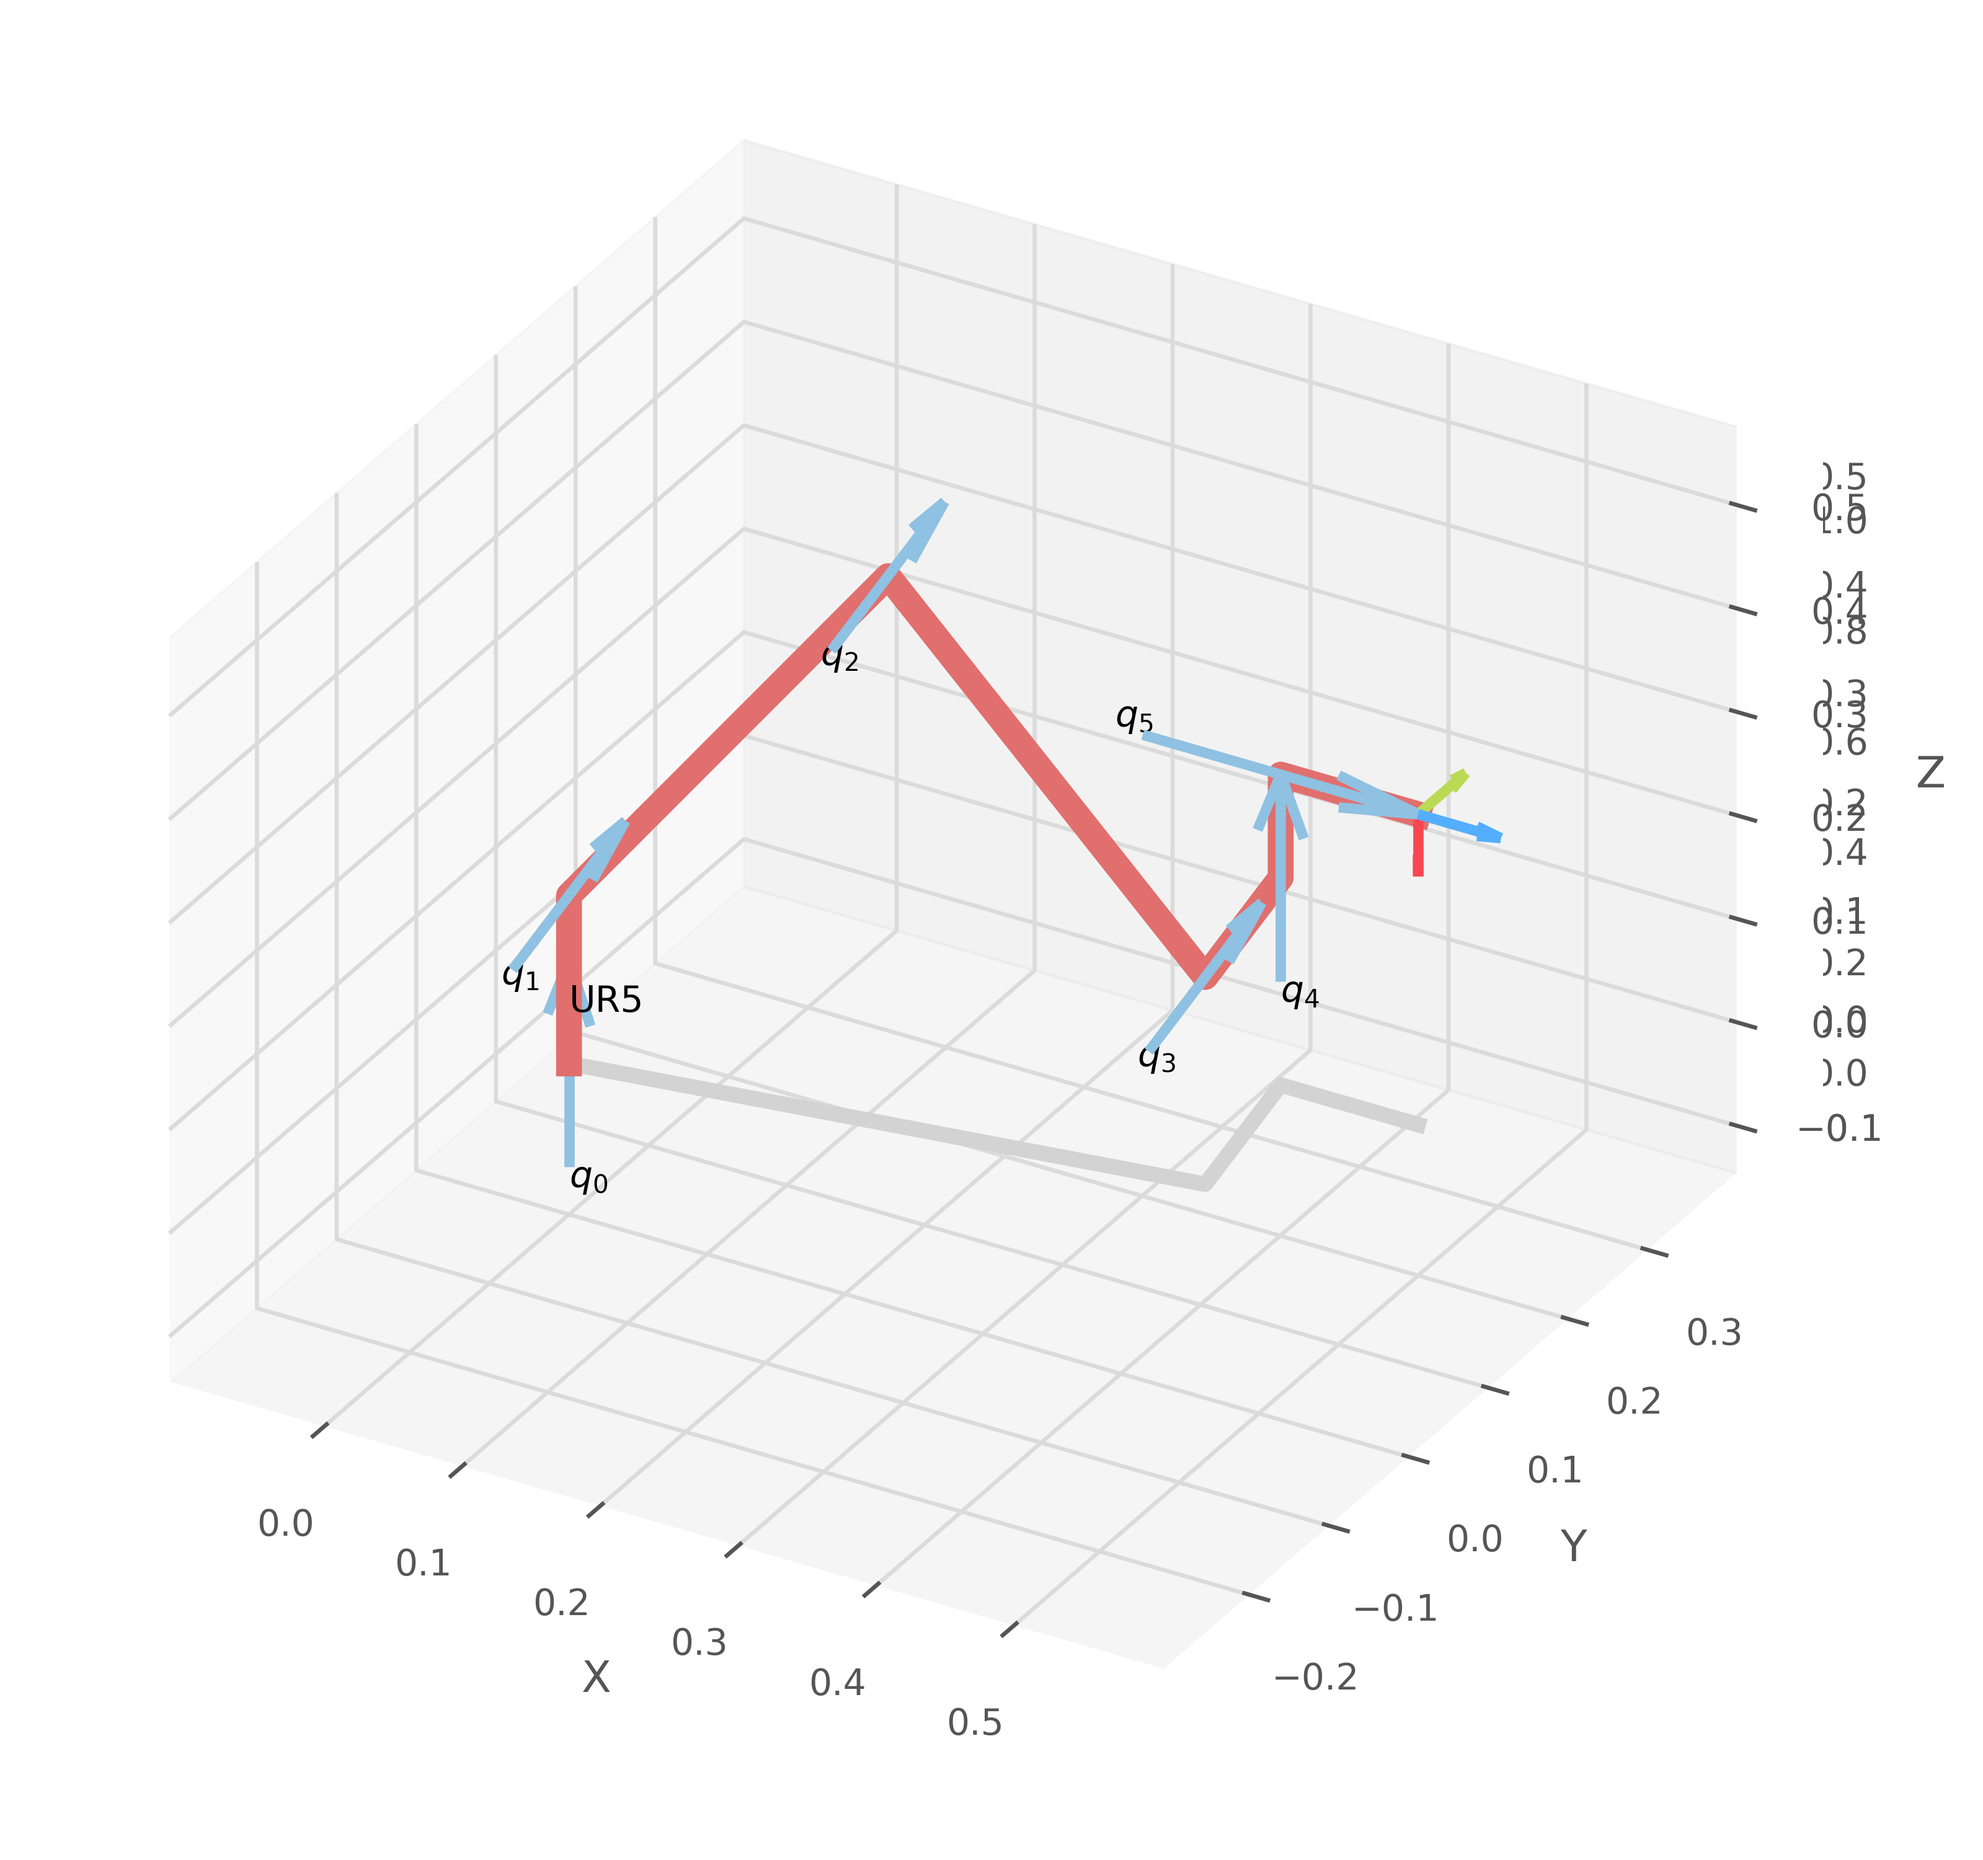
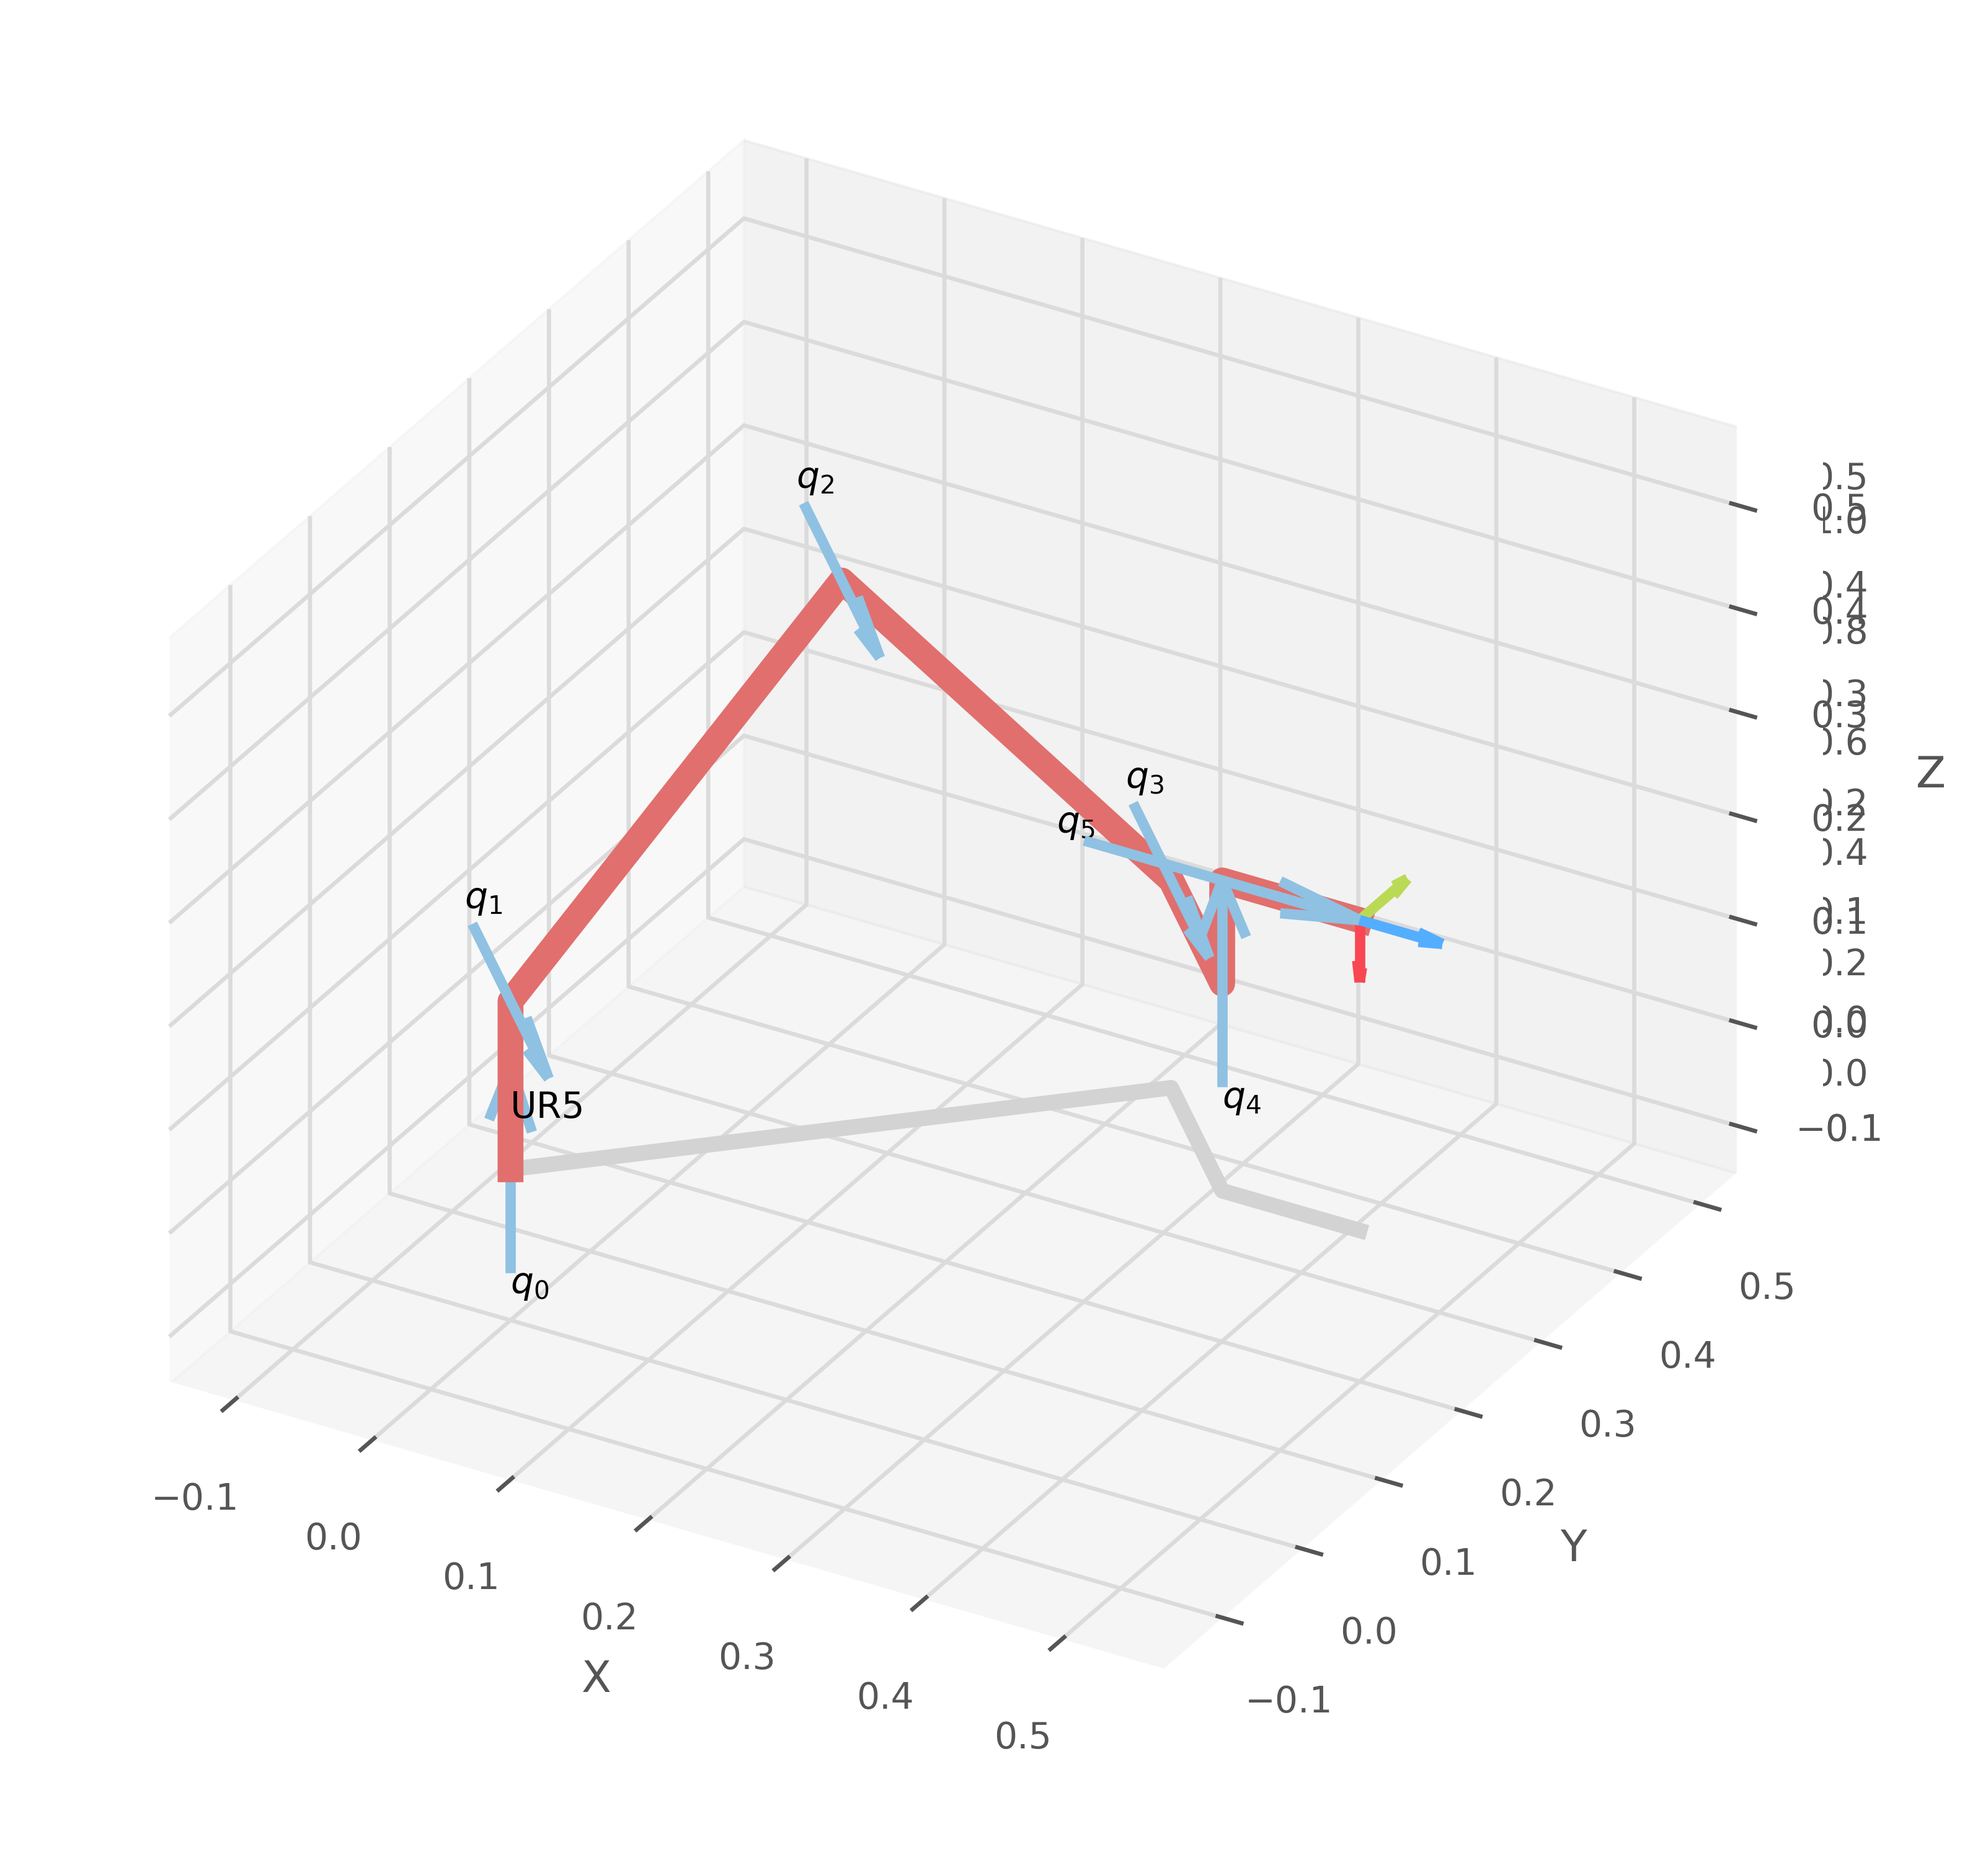
try_solve

diff --git a/Web/Reportes/Teoria/T5/assets/IK/Try2/robot_check.py b/Web/Reportes/Teoria/T5/assets/IK/Try2/robot_check.py
@@ -24,10 +24,10 @@ robot = rtb.DHRobot(
     [
         rtb.RevoluteDH( alpha=np.pi/2,      a=0,    d=a1,       offset=0),
         rtb.RevoluteDH( alpha=0,            a=-a2,   d=0,        offset=-np.pi/2),
-        rtb.RevoluteDH( alpha=0,            a=-a3,   d=0,        offset=0),
-        rtb.RevoluteDH( alpha=np.pi/2,      a=0,    d=a4,    offset=-np.pi/2),
-        rtb.RevoluteDH( alpha=-np.pi/2,     a=0,    d=a5,        offset=0),
-        rtb.RevoluteDH( alpha=0,            a=0,    d=a6,    offset=np.pi)
+        rtb.RevoluteDH( alpha=0,            a=-a3,   d=0,        offset=0)
+        # rtb.RevoluteDH( alpha=np.pi/2,      a=0,    d=a4,    offset=-np.pi/2),
+        # rtb.RevoluteDH( alpha=-np.pi/2,     a=0,    d=a5,        offset=0),
+        # rtb.RevoluteDH( alpha=0,            a=0,    d=a6,    offset=np.pi)
     ],
     name=name
 )
@@ -40,7 +40,7 @@ print(robot)
 # Define the displacement values for each revolute joint
 t_values = [0, 0, 0, 0, 0, 0]
 d_values = [0, 0, 0, 0, 0, 0]  # Example: [X, Y, Z] displacements in meters
-q_values = [t_values[0], t_values[1], t_values[2], t_values[3], t_values[4], t_values[5]]
+q_values = [t_values[0], t_values[1], t_values[2]]
 
 print("Matriz de transformación (Directa):")
 T = robot.fkine(q_values)  # Forward kinematics
@@ -52,7 +52,7 @@ plt.savefig(f"Web/Reportes/Teoria/T5/assets/IK/Try2/FK {name}.png", dpi=600, bbo
 
 # Inverse kinematics ------------------------------------------------------
 #Definir la pose deseada del efector final (posición y orientación)
-Td = SE3(0.5, 0.2, 0.3) * SE3.RPY([0, np.pi/2, 0], order="xyz")
+Td = SE3(0.15, 0.15, 0.3) * SE3.RPY([0, np.pi/2, 0], order="xyz")
 
 print("Matriz de transformación (Inversa):")
 print(Td)
@@ -92,113 +92,42 @@ print("FK con GN:\n", robot.fkine(sol_GN.q))
 print("FK con NR:\n", robot.fkine(sol_NR.q))
 
 
-
-
 # Inverse by Geometry --------------------------------------------------------------
 # Definir los valores numéricos para la posición deseada del efector final
-x, y, z = 0.5, 0.2, 0.3
+x, y, z = 0.15, 0.015, 0.15
 
 # Definir los valores de los parámetros DH del UR5e
 d1, d2, d3, d4, d5, d6 = a1, a2, a3, a4, a5, a6
 
-#Conociendo Th5
-th5 = np.deg2rad(30)
-
 # Cálculo de los parámetros intermedios
 z1 = z - d1
-
-n2= d6 * np.cos(th5)
-n1 = d6 * np.sin(th5)
-n3 = d4 - n2
-
 hxy = np.sqrt(x**2 + y**2)
-h2 = np.sqrt(hxy**2 -n3**2)
+hxyz = np.sqrt(hxy**2 + z1**2)
 
-hxyz = np.sqrt(h2**2 + z1**2)
-
-phi3 = np.arctan2(y, x)
-
-
-ho3_o5 = np.sqrt(d5**2 - n1**2)
+phi3 = np.arctan2(z1, hxy)
+ho3_o5 = d5 / np.cos(phi3)
 ho1_o3 = hxyz - ho3_o5
 
-phi1 = np.arccos(h2/hxy)
-phi2 = np.arccos(-(d3**2 - (d2**2) - (ho1_o3**2)) / (2 * d2 * ho1_o3))
-phi4 = np.arctan(z1/h2)
-phi5 = np.arccos(-(ho1_o3**2 - (d2**2) - (d3**2)) / (2 * d2 * d3))
+n1 = np.sqrt(ho3_o5**2 - d5**2)
+n2 = np.sqrt(d6**2 - n1**2)
+
+phi1 = np.arccos(-(d3**2 - (d2**2) - (ho1_o3**2)) / (2 * d2 * ho1_o3))
+phi2 = np.arccos(-(ho1_o3**2 - (d2**2) - (d3**2)) / (2 * d2 * d3))
+phi4 = np.deg2rad(180) - phi1 - phi2
+phi5 = np.arctan(y/x)
+phi6 = np.arcsin((d4 - n2) / hxy)
 
 # Cálculo de los ángulos articulares
-th1 = phi3-phi1
-th2 = phi4-phi2
-th3 = np.deg2rad(180) - phi5
-th4 = (np.deg2rad(180) - phi2 -phi5 + phi4)
-th5 = th5
-th6 = np.deg2rad(0) 
+th1 = phi5 - phi6
+th2 = phi3 - phi1
+th3 = np.deg2rad(180) - phi2
+th4 = phi3 + phi4
+th5 = np.arcsin(n1 / d6)
+th6 = np.deg2rad(0)
 
 # Validación con Cinemática Directa
-q_numeric = [th1, th2, th3, th4, th5, th6]
-T_numeric = robot.fkine(q_numeric)
-
-# Mostrar los resultados
-print("\n--- Inverse by Geometry ---")
-print(np.rad2deg(q_numeric))
-
-
-print("\n--- Validación con FK (Numérica) ---")
-print(T_numeric)
-
-# Graficar la postura obtenida
-robot.plot(q_numeric, block=Status_block, jointaxes=True, eeframe=True, jointlabels=True)
-plt.savefig(f"Web/Reportes/Teoria/T5/assets/IK/Try2/FK_numpy_{name}.png", dpi=600, bbox_inches='tight', pad_inches=0.1)
-
-
-# Inverse by Geometry 3--------------------------------------------------------------
-
-# Definir los valores de los parámetros DH del UR5e
-d1, d2, d3, d4, d5, d6 = a1, a2, a3, a4, a5, a6
-
-#Conociendo Th5
-th5 = np.deg2rad(30)
-
-# Cálculo de los parámetros intermedios
-z1 = z - d1
-
-n2= d6 * np.cos(th5)
-n1 = d6 * np.sin(th5)
-n3 = d4 - n2
-
-hxy = np.sqrt(x**2 + y**2)
-h2 = np.sqrt(hxy**2 -n3**2)
-
-hxyz = np.sqrt(h2**2 + z1**2)
-
-phi3 = np.arctan2(y, x)
-
-
-ho3_o5 = np.sqrt(d5**2 - n1**2)
-
-h3 = np.sqrt(hxy**2 - n1**2)
-
-ho1_o3 = h3-d5
-
-phi1 = np.arccos(h2/hxy)
-phi2 = np.arccos(-(d3**2 - (d2**2) - (ho1_o3**2)) / (2 * d2 * ho1_o3))
-phi4 = np.arccos(-(ho1_o3**2 - (d2**2) - (d3**2)) / (2 * d2 * d3))
-phi5 = np.arctan(z1/h2)
-phi6 = np.deg2rad(180) - phi2 - phi4
-phi7 = np.arccos(h3/hxyz)
-
-
-# Cálculo de los ángulos articulares
-th1 = phi3-phi1
-th2 = phi4-phi2
-th3 = np.deg2rad(180) - phi5
-th4 = (np.deg2rad(180) - phi2 -phi5 + phi4)
-th5 = th5
-th6 = np.deg2rad(0) 
-
-# Validación con Cinemática Directa
-q_numeric = [th1, th2, th3, th4, th5, th6]
+#q_numeric = [th1, th2, th3, th4, th5, th6]
+q_numeric = [th1, th2, th3]
 T_numeric = robot.fkine(q_numeric)
 
 # Mostrar los resultados
